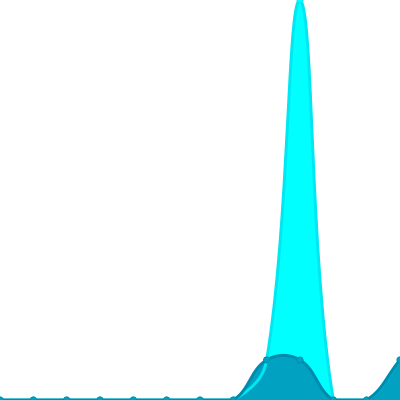
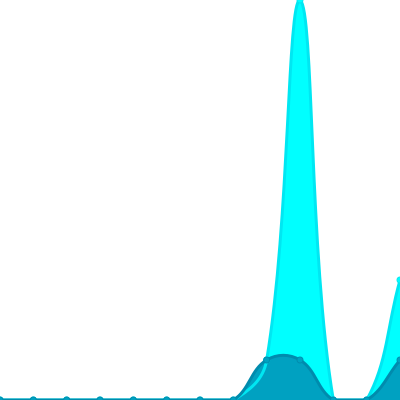
Update views

Changed region(s): [[0.9, 0.69, 1.0, 0.99]]

diff --git a/readme/355712061/year.md b/readme/355712061/year.md
@@ -26,7 +26,7 @@
 			<code>1</code>
 		</td>
 		<td>
-			<code>1</code>
+			<code>3</code>
 		</td>
 	</tr>
 	<tr>
@@ -164,7 +164,7 @@
 </table>
 
 </details>
-<small><i>Last updated on 2022/2/16 12:17 PM UTC</i></small>
+<small><i>Last updated on 2022/2/16 6:13 PM UTC</i></small>
 
 ## ✂Copy and 📋 Paste
 ### SVG Badge

diff --git a/README.md b/README.md
@@ -133,7 +133,7 @@ The project created and maintained by [gayanvoice](https://github.com/gayanvoice
 	</tr>
 </table>
 
-<small><i>Last updated on 2022/2/16 12:17 PM UTC</i></small>
+<small><i>Last updated on 2022/2/16 6:14 PM UTC</i></small>
 
 ## ✂Copy and 📋 Paste
 ### Total Views Badge

diff --git a/readme/267530346/year.md b/readme/267530346/year.md
@@ -164,7 +164,7 @@
 </table>
 
 </details>
-<small><i>Last updated on 2022/2/16 12:17 PM UTC</i></small>
+<small><i>Last updated on 2022/2/16 6:14 PM UTC</i></small>
 
 ## ✂Copy and 📋 Paste
 ### SVG Badge

diff --git a/readme/370225041/year.md b/readme/370225041/year.md
@@ -164,7 +164,7 @@
 </table>
 
 </details>
-<small><i>Last updated on 2022/2/16 12:16 PM UTC</i></small>
+<small><i>Last updated on 2022/2/16 6:13 PM UTC</i></small>
 
 ## ✂Copy and 📋 Paste
 ### SVG Badge

diff --git a/readme/370225247/year.md b/readme/370225247/year.md
@@ -164,7 +164,7 @@
 </table>
 
 </details>
-<small><i>Last updated on 2022/2/16 12:17 PM UTC</i></small>
+<small><i>Last updated on 2022/2/16 6:14 PM UTC</i></small>
 
 ## ✂Copy and 📋 Paste
 ### SVG Badge

diff --git a/readme/374697595/year.md b/readme/374697595/year.md
@@ -164,7 +164,7 @@
 </table>
 
 </details>
-<small><i>Last updated on 2022/2/16 12:17 PM UTC</i></small>
+<small><i>Last updated on 2022/2/16 6:14 PM UTC</i></small>
 
 ## ✂Copy and 📋 Paste
 ### SVG Badge

diff --git a/readme/386867214/year.md b/readme/386867214/year.md
@@ -164,7 +164,7 @@
 </table>
 
 </details>
-<small><i>Last updated on 2022/2/16 12:17 PM UTC</i></small>
+<small><i>Last updated on 2022/2/16 6:13 PM UTC</i></small>
 
 ## ✂Copy and 📋 Paste
 ### SVG Badge

diff --git a/readme/418262112/year.md b/readme/418262112/year.md
@@ -164,7 +164,7 @@
 </table>
 
 </details>
-<small><i>Last updated on 2022/2/16 12:16 PM UTC</i></small>
+<small><i>Last updated on 2022/2/16 6:13 PM UTC</i></small>
 
 ## ✂Copy and 📋 Paste
 ### SVG Badge
